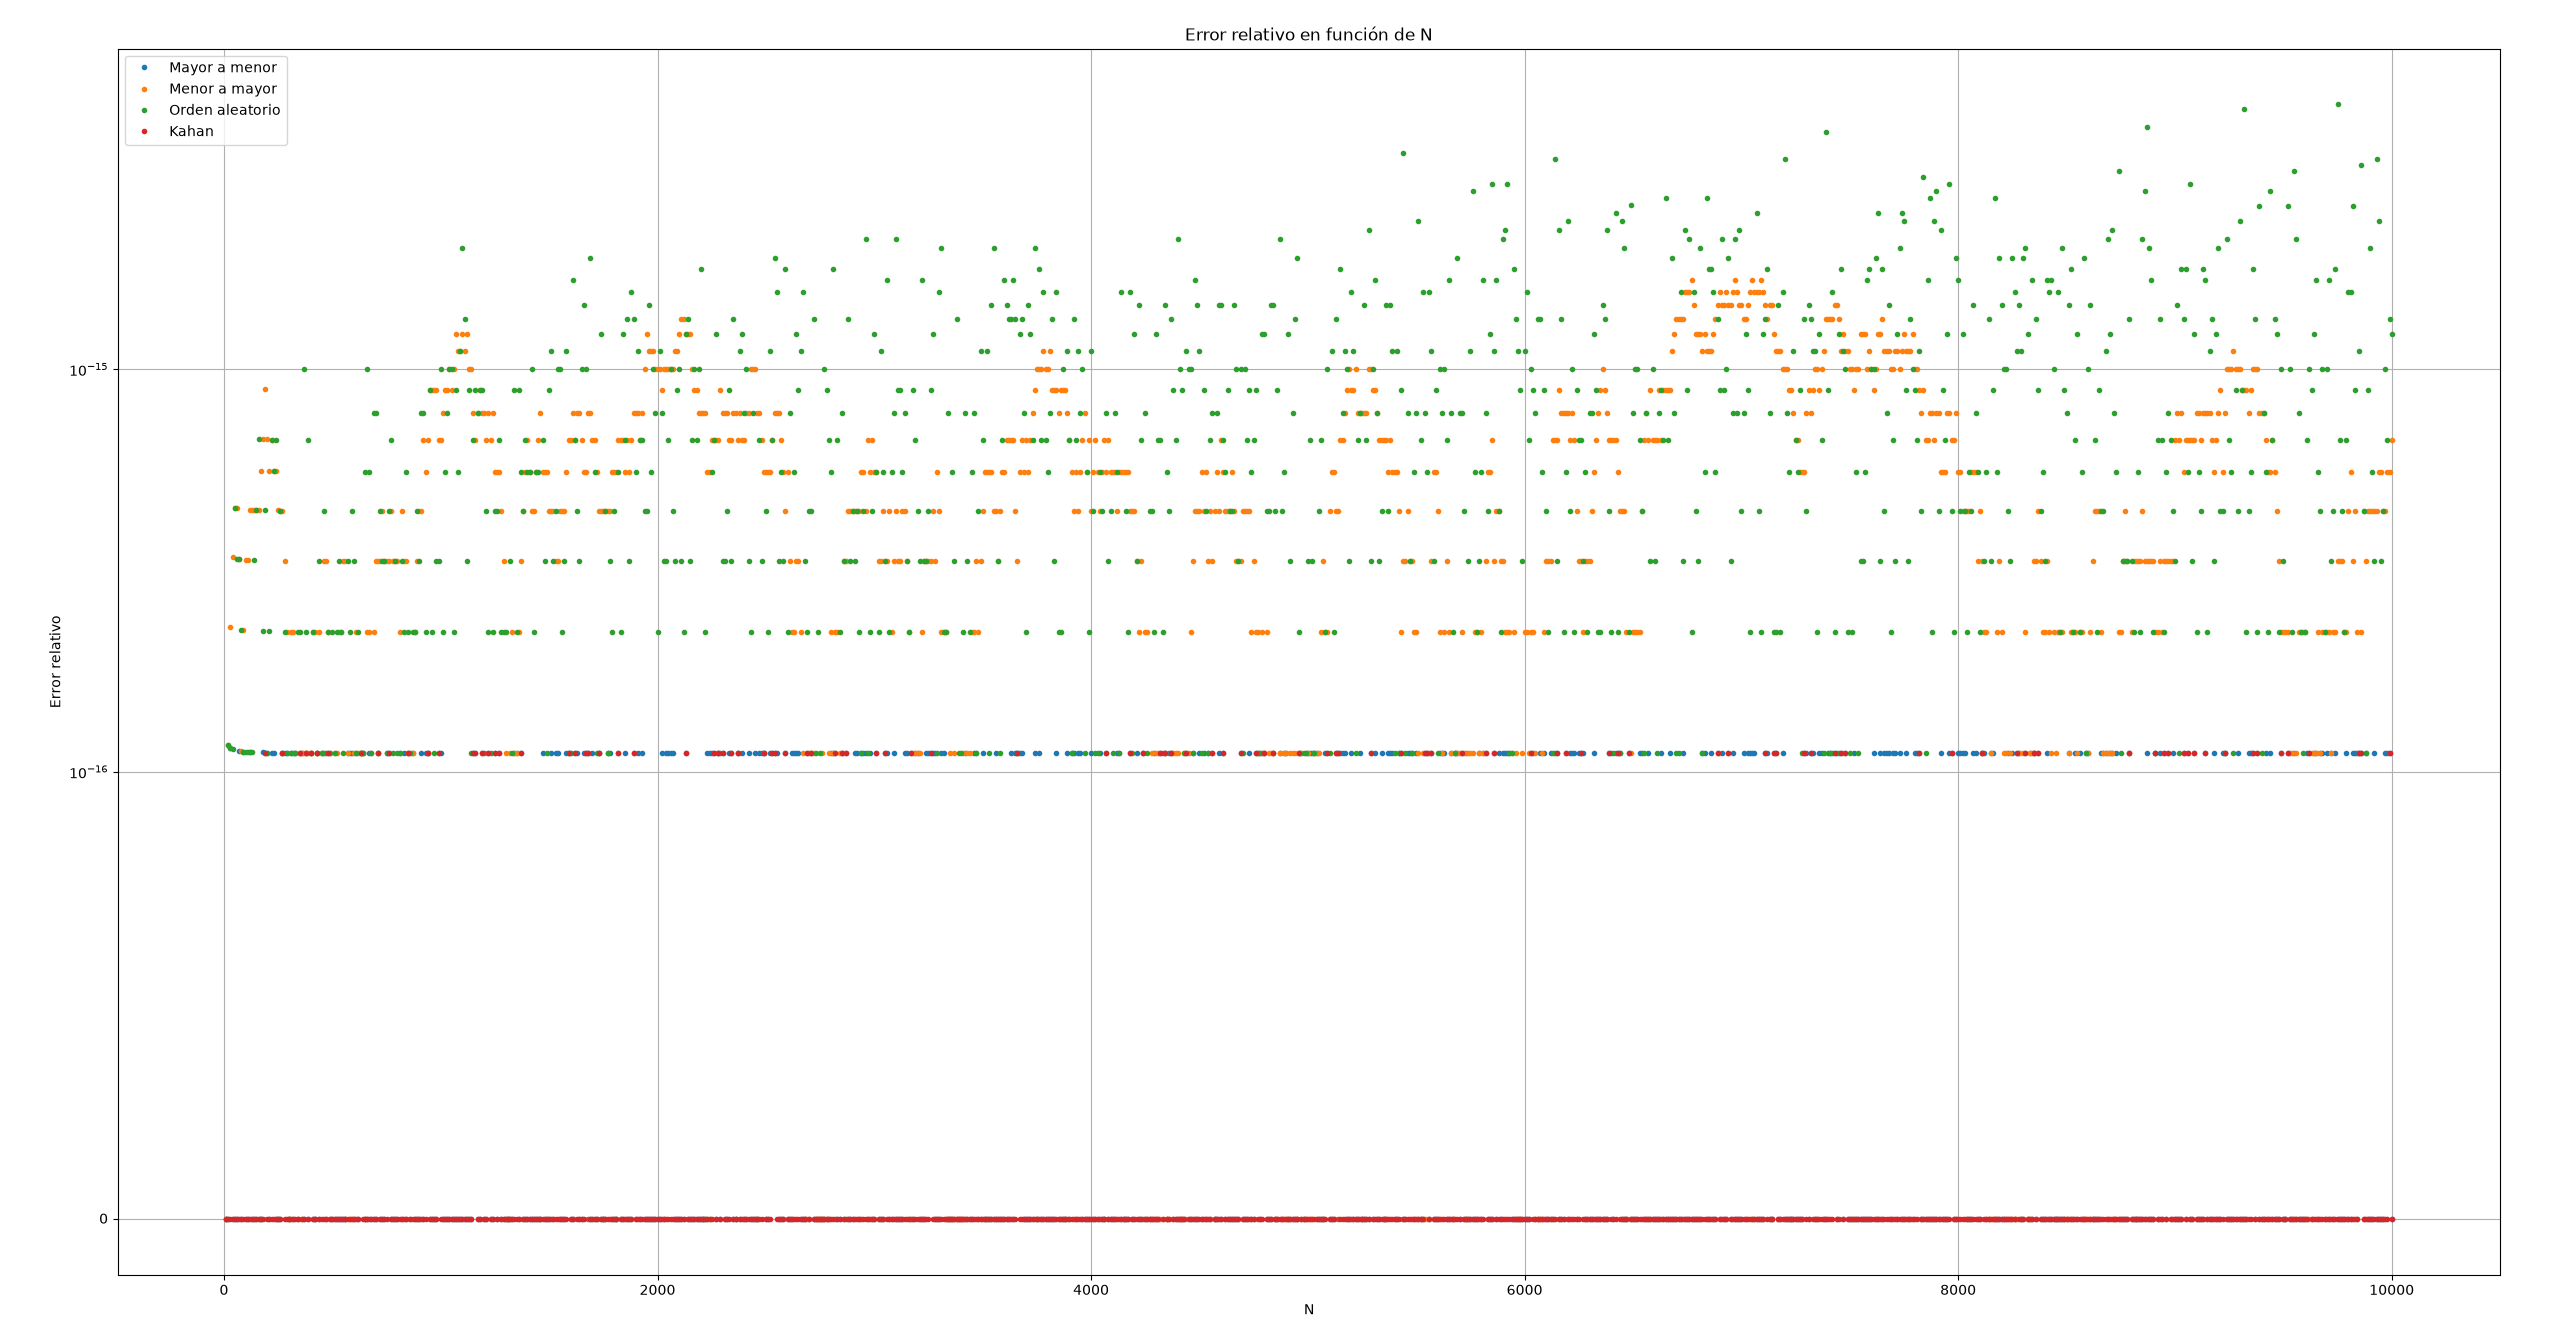
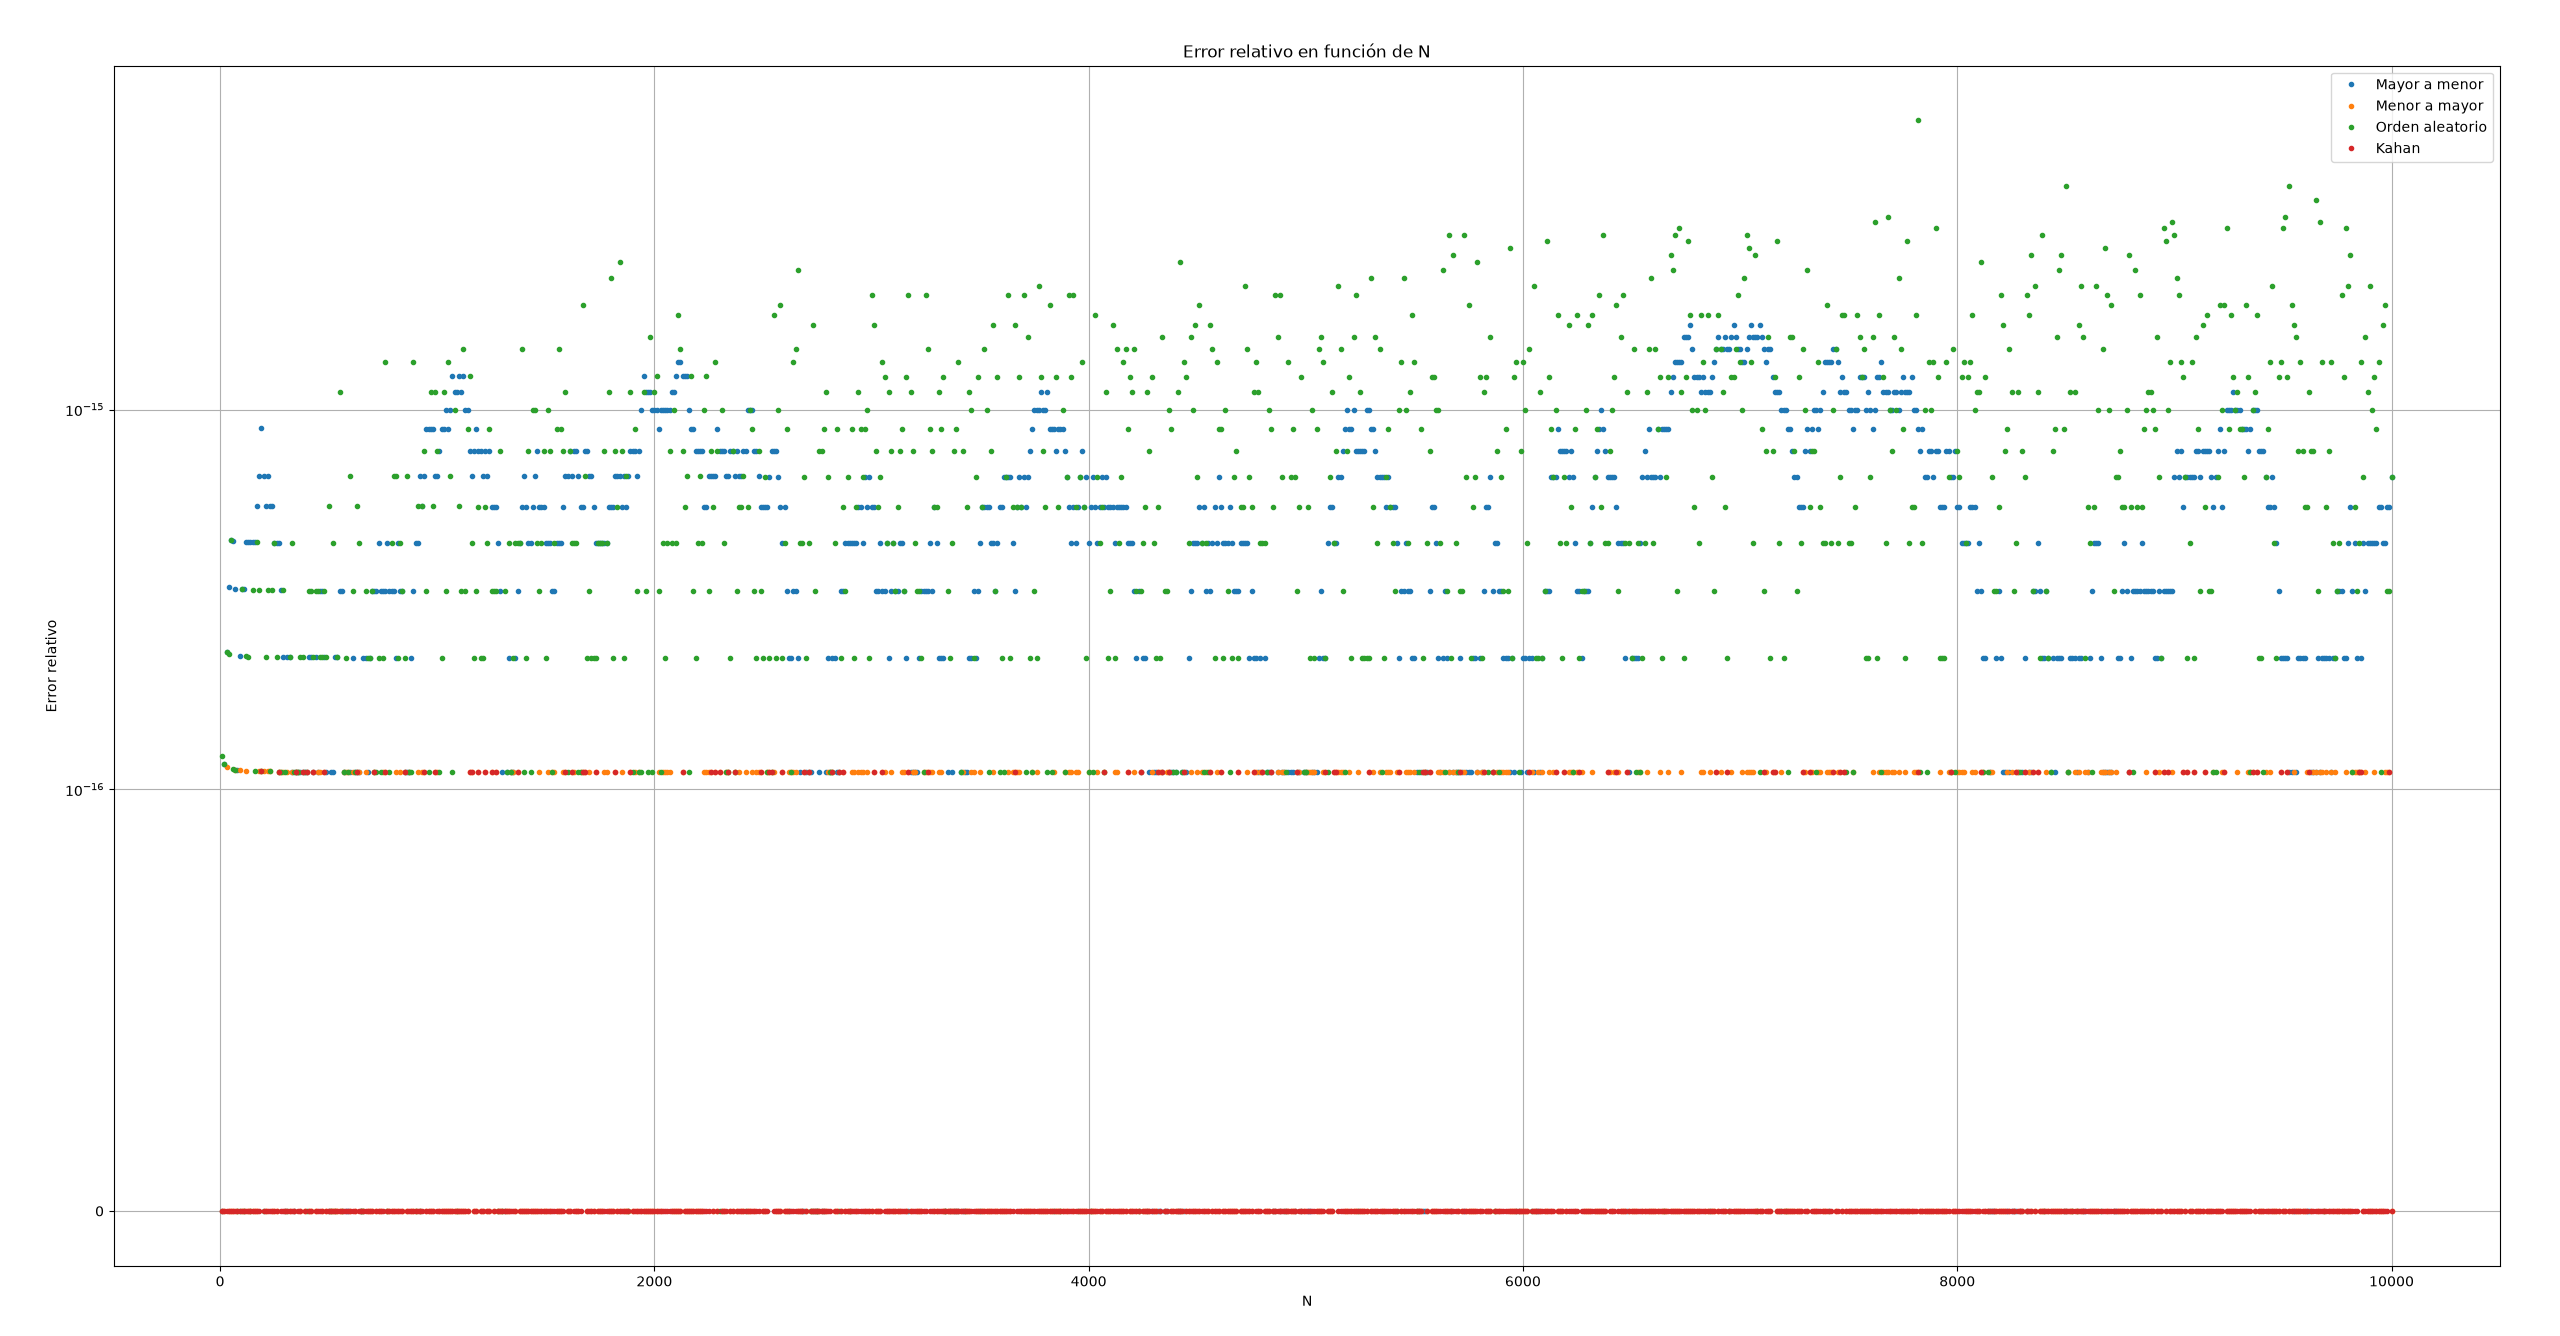
correcion en algoritmos

diff --git a/parte_2/parte_2.py b/parte_2/parte_2.py
@@ -10,7 +10,7 @@ def calcular_error_relativo(teorico, numerico):
 def suma_mayor_a_menor(N):
     resultado_teorico = N/(N+1)
     resultado_numerico = 0
-    for k in range(N, 0, -1):
+    for k in range(1, N+1):
         termino_k = 1/(k*(k+1))
         resultado_numerico += termino_k
     error_relativo = calcular_error_relativo(resultado_teorico, resultado_numerico)
@@ -19,7 +19,7 @@ def suma_mayor_a_menor(N):
 def suma_menor_a_mayor(N):
     resultado_teorico = N/(N+1)
     resultado_numerico = 0
-    for k in range(1, N+1):
+    for k in range(N, 0, -1):
         termino_k = 1/(k*(k+1))
         resultado_numerico += termino_k
     error_relativo = calcular_error_relativo(resultado_teorico, resultado_numerico)
@@ -88,11 +88,11 @@ def graficar_errores(valores_N):
     plt.show()
 
 
-# valores_N = range(10, 10001, 10)
-# graficar_errores(valores_N)
+valores_N = range(10, 10001, 10)
+graficar_errores(valores_N)
 
-# valores_N = range(1000, 1000001, 1000)
-# graficar_errores(valores_N)
+valores_N = range(1000, 1000001, 1000)
+graficar_errores(valores_N)
 
 error_suma_aleatoria = {
     "Intento 1": suma_orden_aleatorio(800000)[2],
